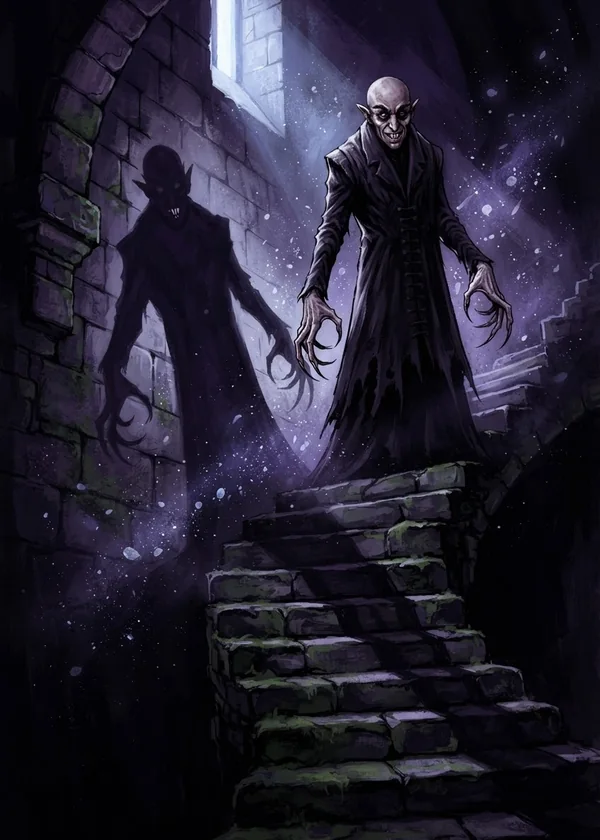
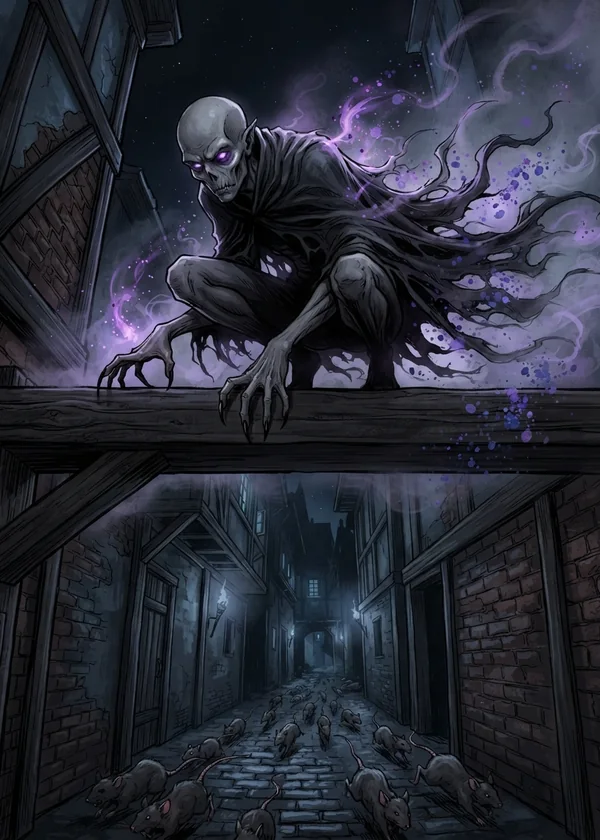
v282 : nouvelle illustration de Nosferatu (ne reprend plus la scène du film de 1922)
Claude-Session: https://claude.ai/code/session_01CUyhbiofHtX7WBrtcLZEpz

diff --git a/sw.js b/sw.js
@@ -1,7 +1,7 @@
 // Service worker d'ABYSSAL : l'application et les données sont mises en cache
 // pour fonctionner hors ligne après une première visite. Incrémenter VERSION à
 // chaque publication pour que les joueurs reçoivent la mise à jour.
-const VERSION = 'abyssal-v281';
+const VERSION = 'abyssal-v282';
 const ART_CACHE = 'abyssal-media';  // images du jeu : gardées entre les versions
 const FONT_CACHE = 'abyssal-fonts';
 const CORE = [

diff --git a/js/config.js b/js/config.js
@@ -1,7 +1,7 @@
 // Configuration centrale du jeu : raretés, tables de tirage, boosters,
 // économie, variantes, progression. Toute la balance se règle ici.
 
-export const VERSION = 'v281'; // même numéro que sw.js : affiché dans Réglages > À propos
+export const VERSION = 'v282'; // même numéro que sw.js : affiché dans Réglages > À propos
 
 export const RARITIES = [
   { key: 'C',  name: 'Commune',     short: 'C',  color: '#A3ADBD' },
